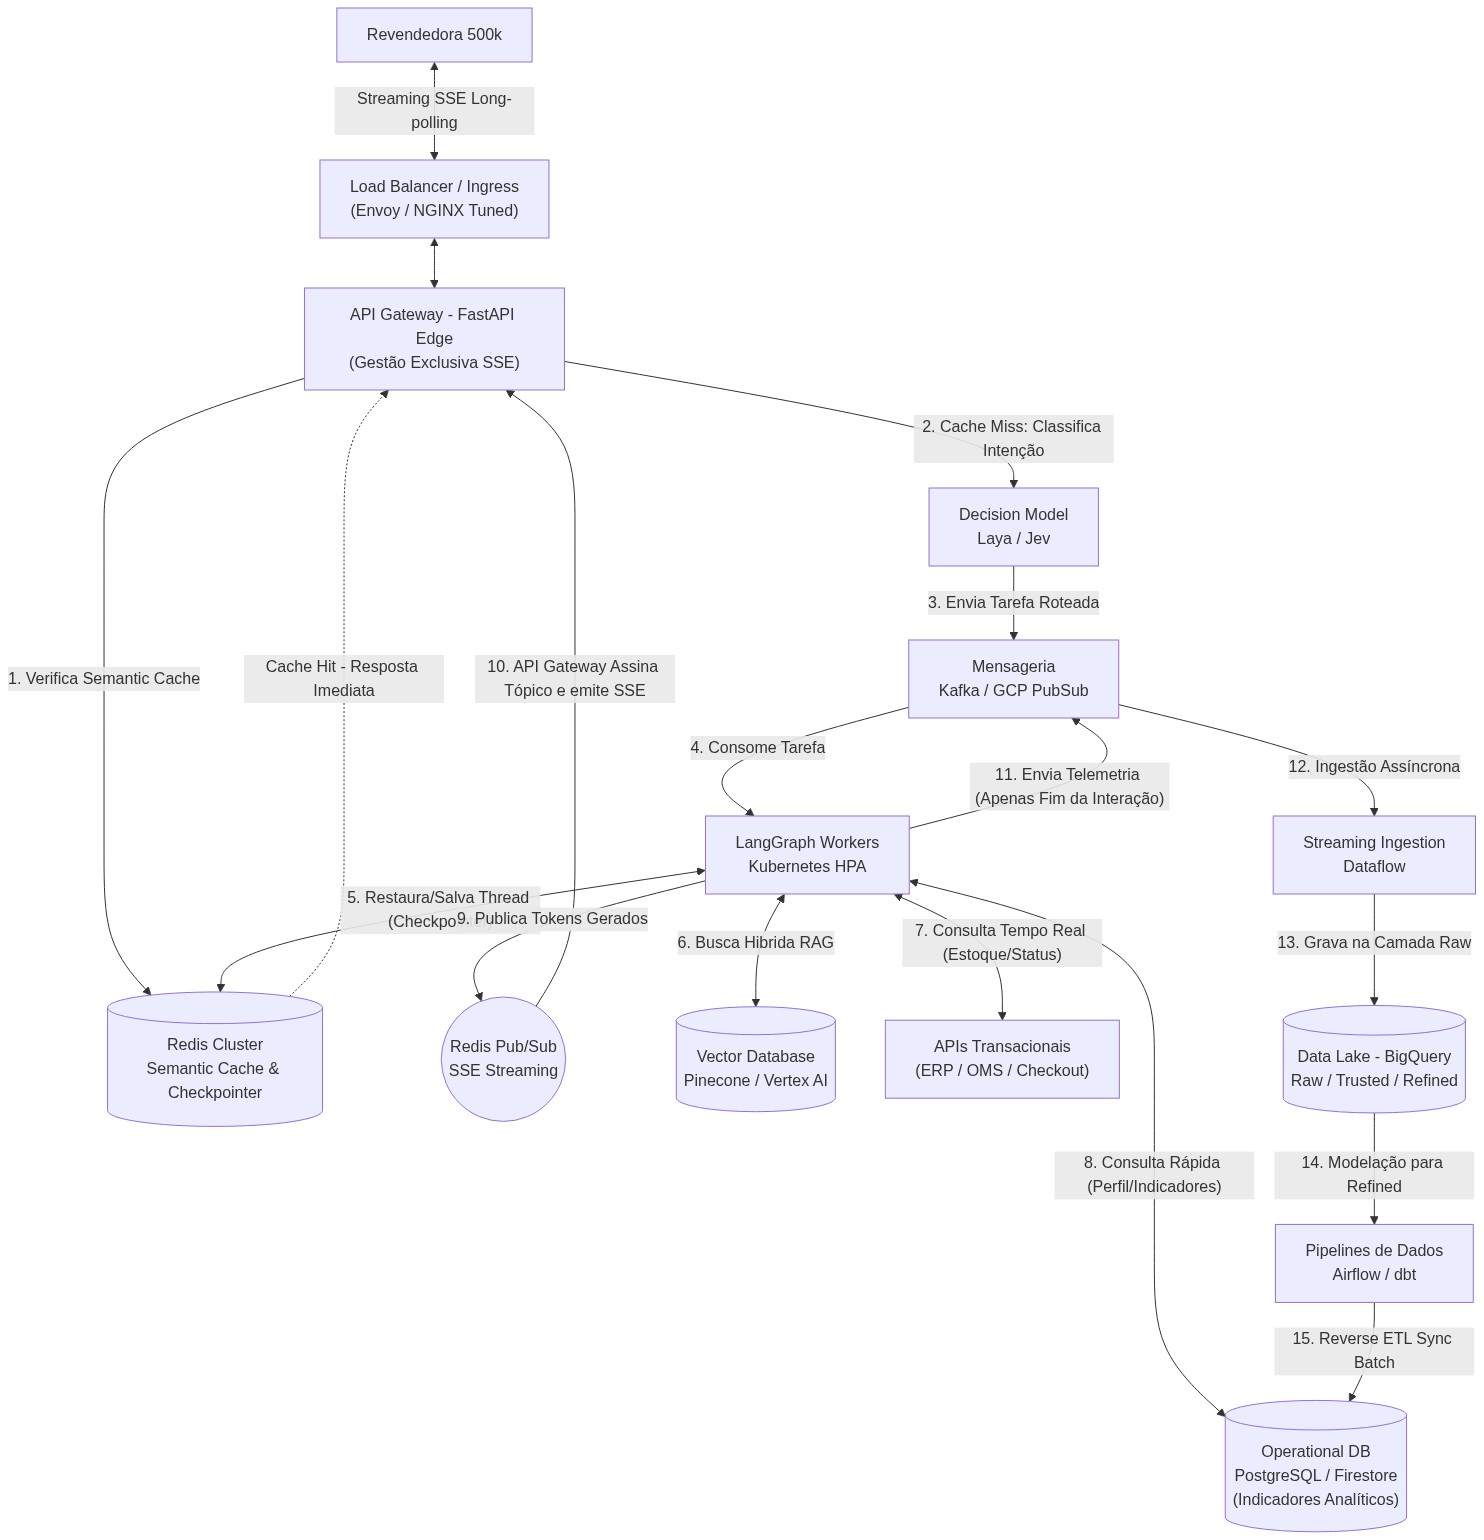
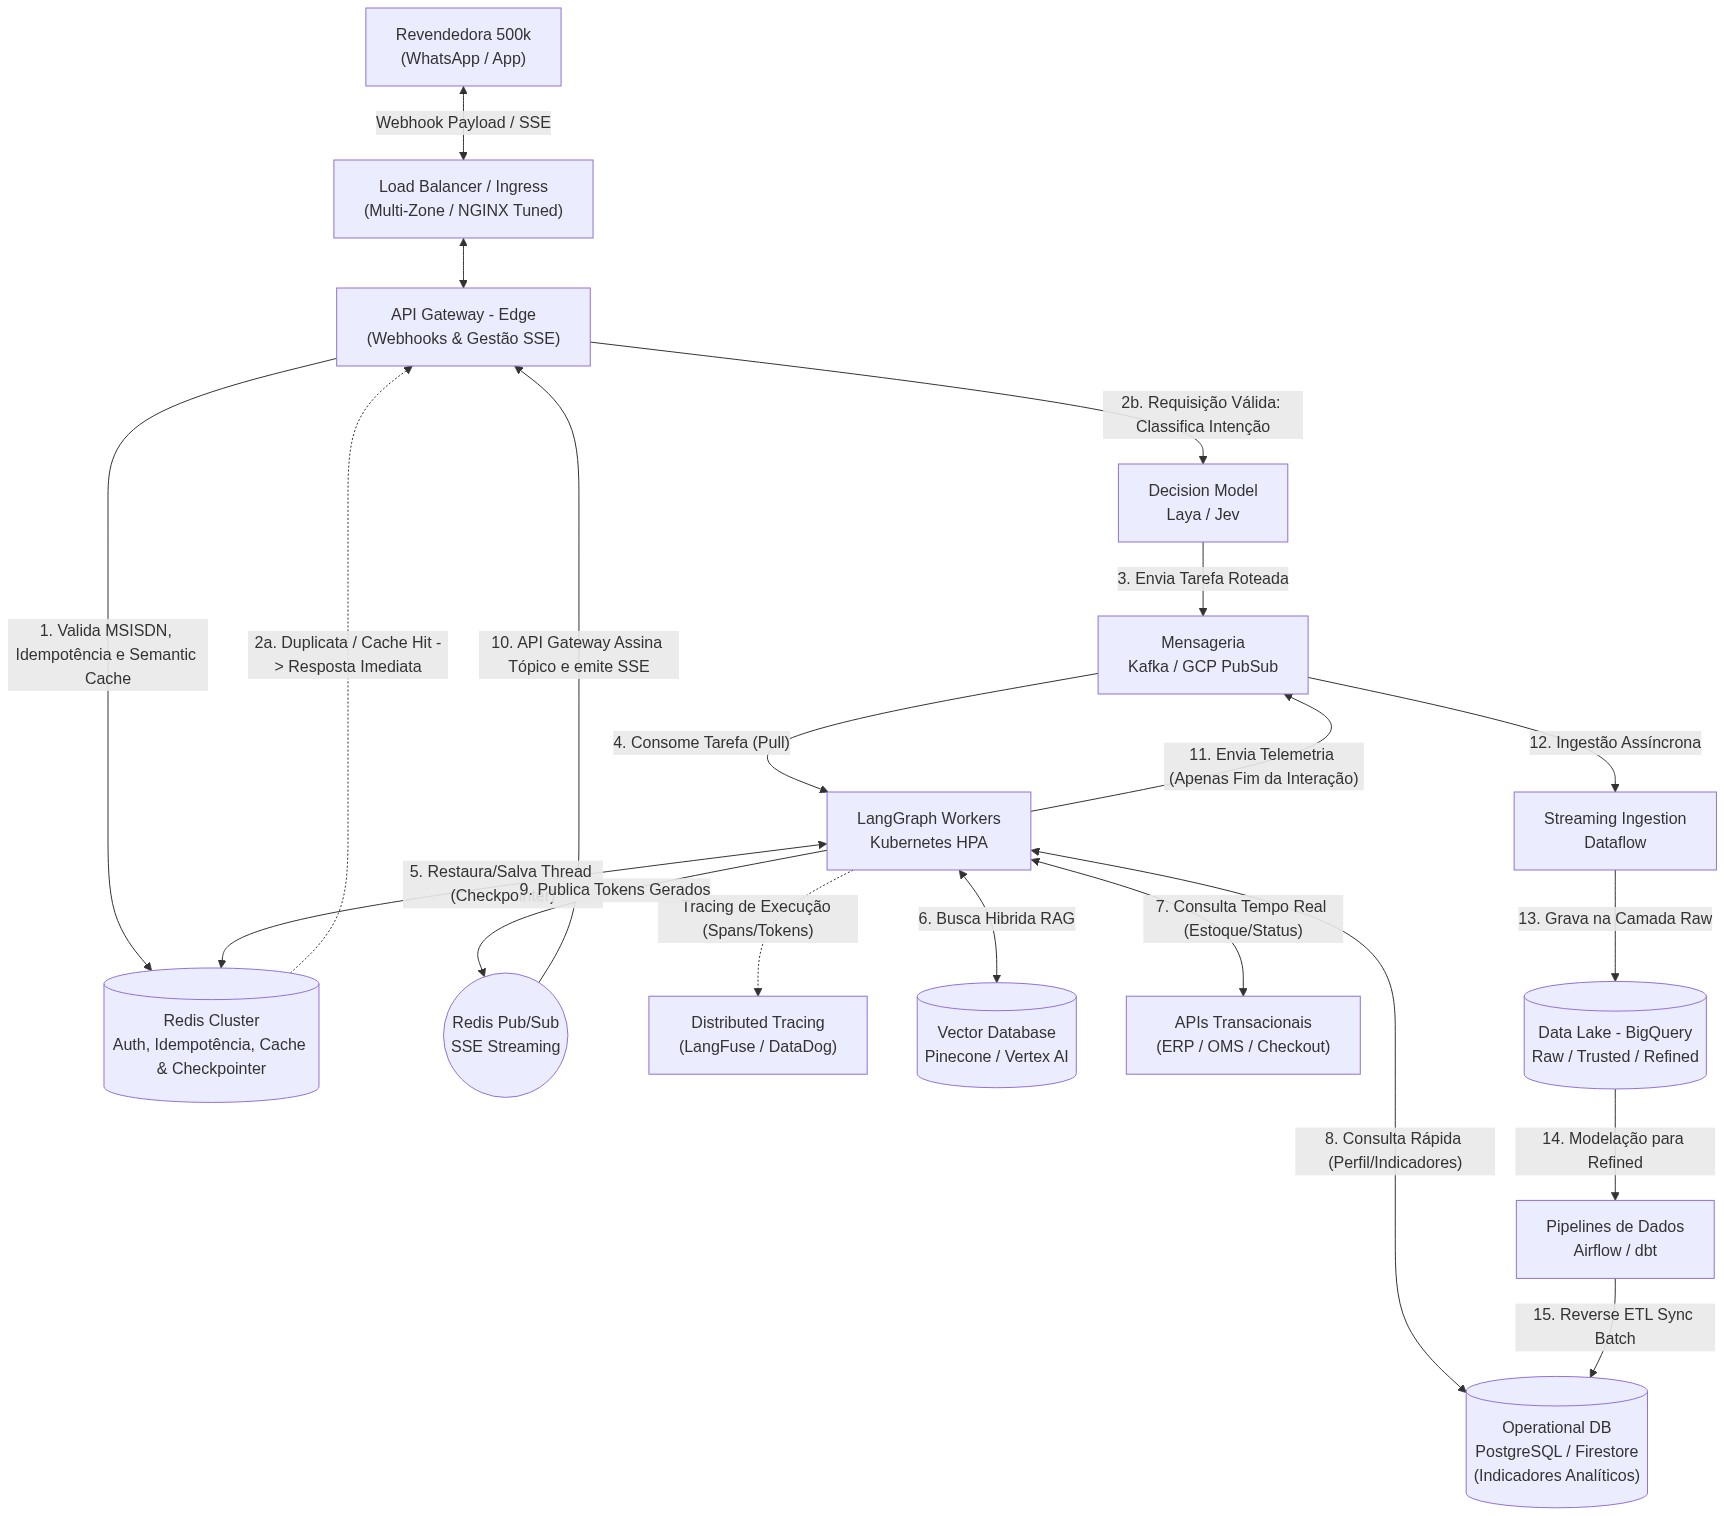
docs: update cloud architecture diagram and description for 500k concurrent connections

diff --git a/docs/diagrams/README.md b/docs/diagrams/README.md
@@ -28,7 +28,7 @@ Este diretório contém as imagens pré-renderizadas de todos os diagramas Merma
 ### 3. System Design para 500k Conexões Simultâneas
 | Diagrama | Arquivo de Imagem | Documento de Origem | Descrição |
 | :--- | :--- | :--- | :--- |
-| **Cloud Architecture (TO-BE)** | [`system-design-cloud-architecture.png`](system-design-cloud-architecture.png) | [system-design-500k.md](../system-design-500k.md) | Topologia Event-Driven na GCP com Envoy/NGINX, Redis Pub/Sub, Kafka e BigQuery. |
+| **Cloud Architecture (TO-BE)** | [`system-design-cloud-architecture.png`](system-design-cloud-architecture.png) | [system-design-500k.md](../system-design-500k.md) | Topologia Event-Driven (Multi-Zone Ingress, Webhooks WhatsApp, Idempotência/Auth no Redis, Tracing Distribuído LangFuse/DataDog, Kafka e BigQuery). |
 | **Esteira de AI Data Engineering (RAG)** | [`system-design-esteira-rag.png`](system-design-esteira-rag.png) | [system-design-500k.md](../system-design-500k.md) | Pipeline de ingestão batch de PDFs e recuperação híbrida em tempo real com re-ranking. |
 | **Orquestração por Sub-grafos** | [`system-design-orquestracao-subgrafos.png`](system-design-orquestracao-subgrafos.png) | [system-design-500k.md](../system-design-500k.md) | Roteamento determinístico por modelos de decisão na borda (FinOps & Menor Latência). |
 
